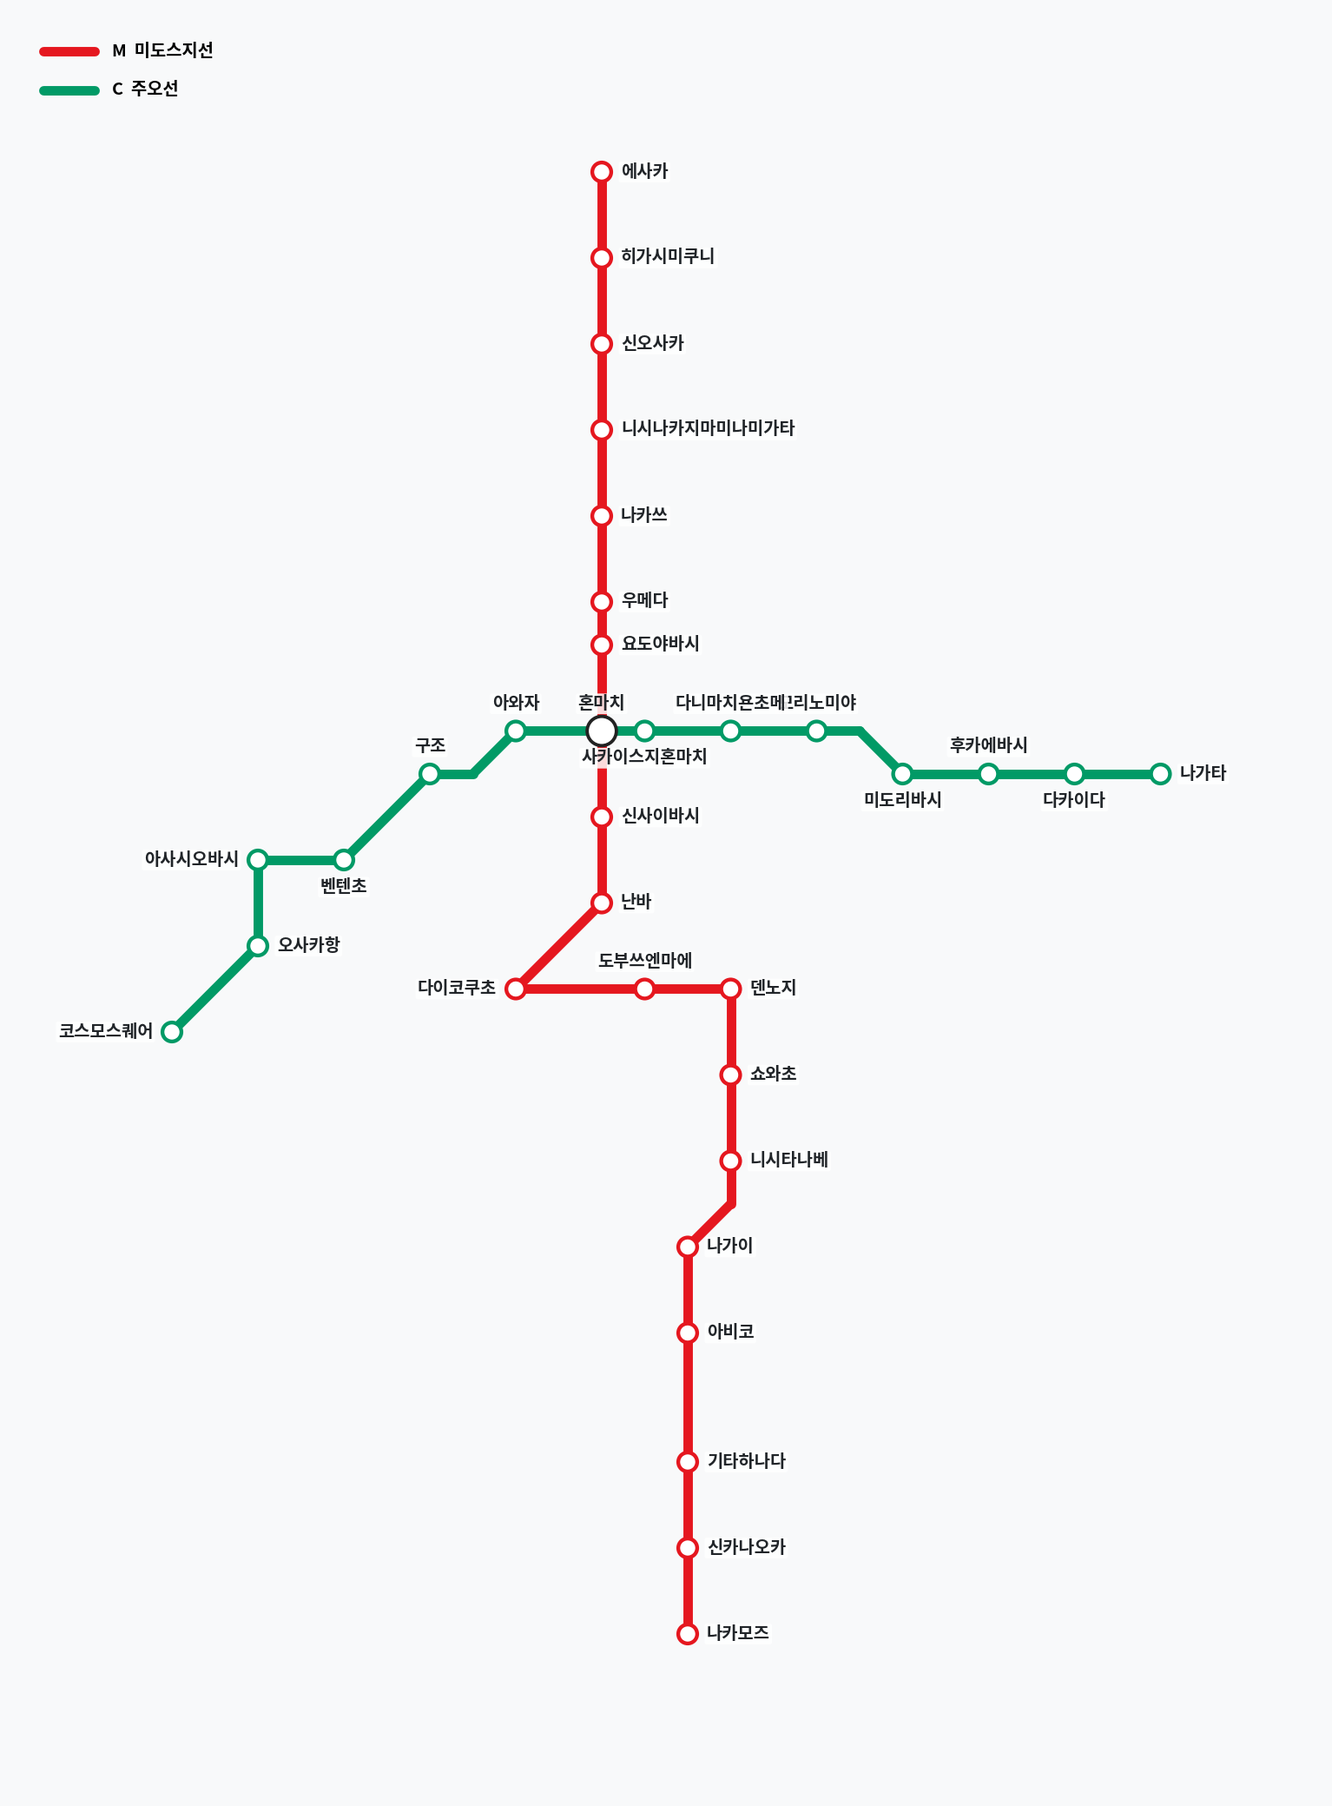
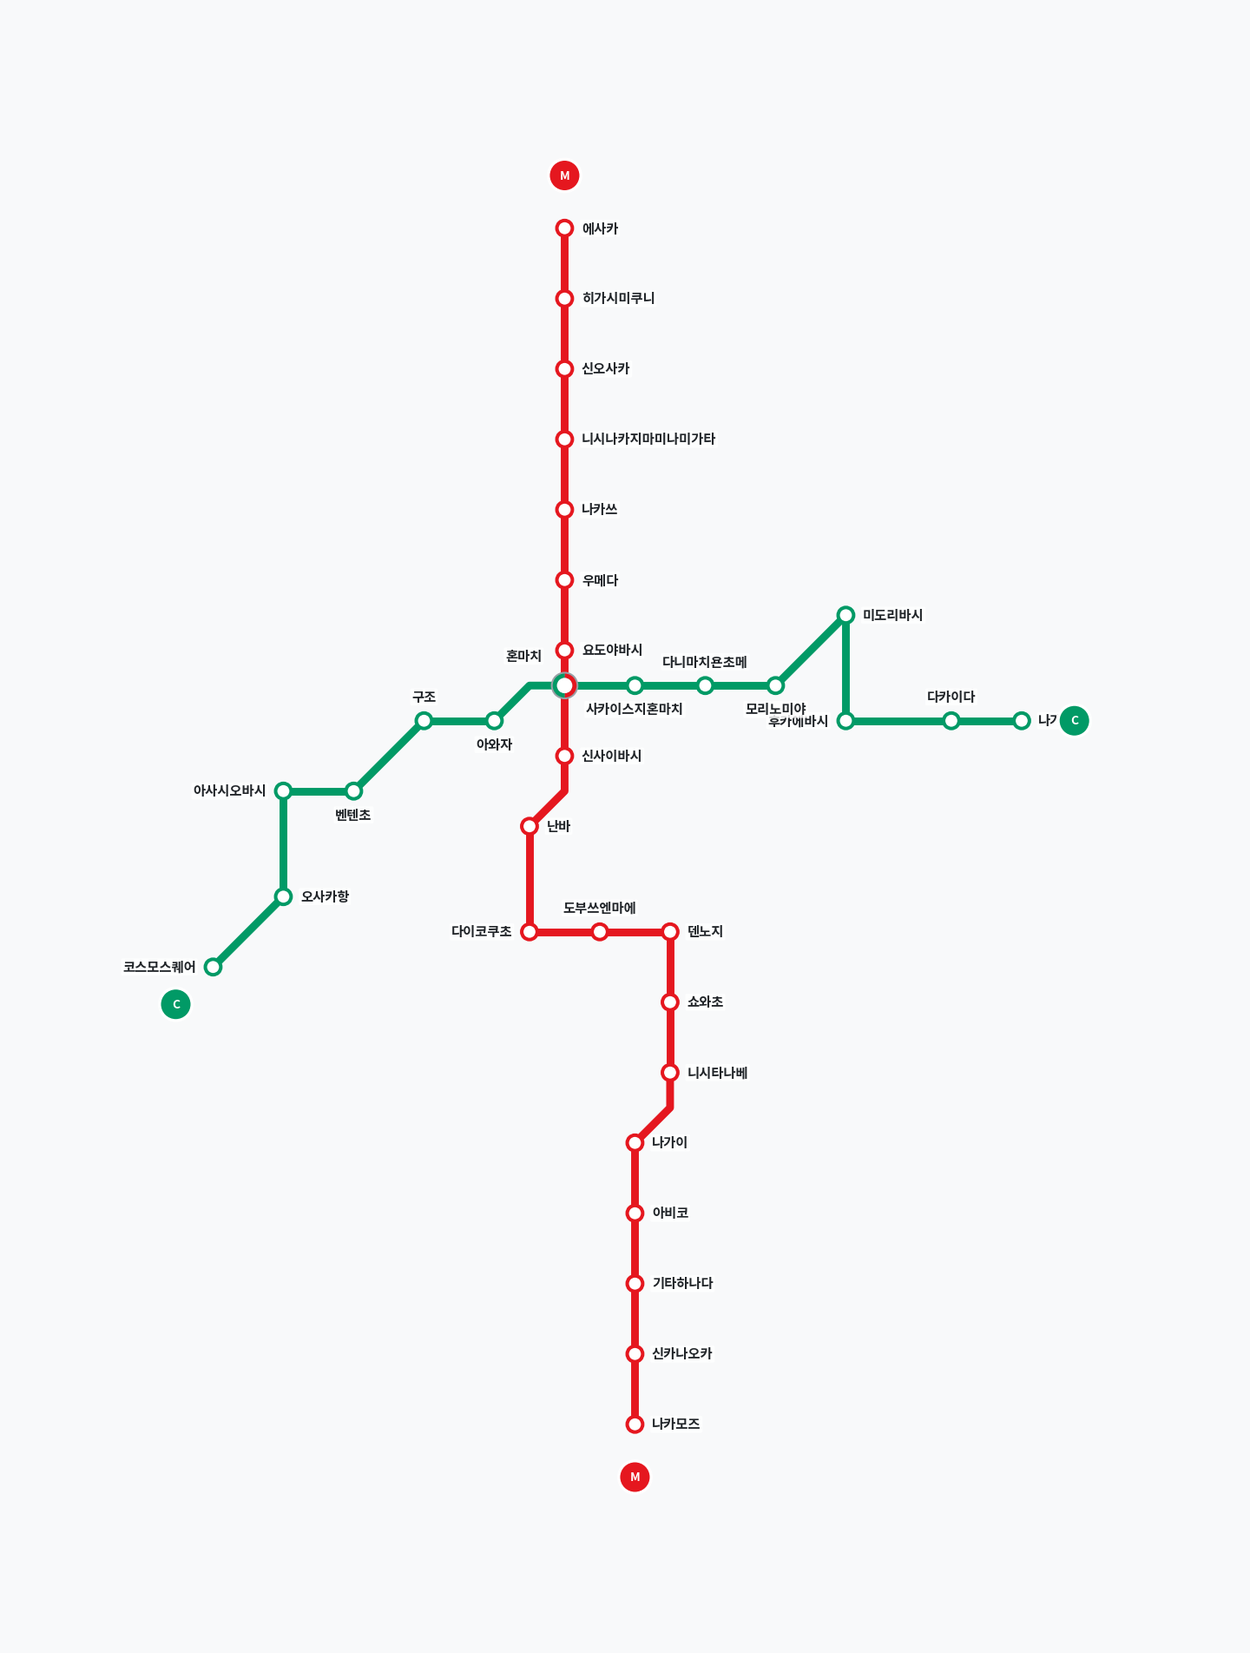
docs: README 정리 + 노선도 미리보기 최신화
- 개요를 한국어·영어로 새로 작성, 앱 설명 외 내용(빌드·릴리즈 절차 등) 삭제
- render_preview: 앱과 같은 회사별 선 디자인·환승역 분할 링·종점 아이콘(JR 사각형)으로 렌더링
- docs/images 노선도 재생성, 도쿄에 통합된 map_tama.png 삭제

Changed region(s): [[0.0625, 0.093, 0.9062, 0.9301], [0.0312, 0.0, 0.1562, 0.062]]

diff --git a/tools/render_preview.py b/tools/render_preview.py
@@ -1,5 +1,7 @@
-"""layout.json → PNG 미리보기 (PR 검토용). 한글 폰트 필요: --font, KO_FONT 환경변수 또는 tools/fonts/*.ttf"""
+"""layout.json → PNG 미리보기. 앱 노선도와 같은 규칙(회사별 선 디자인·환승역 분할 링·종점 아이콘)으로 그린다.
+한글 폰트: --font, KO_FONT 환경변수 또는 tools/fonts/*.ttf"""
 import argparse
+import colorsys
 import glob
 import json
 import math
@@ -9,13 +11,16 @@ import matplotlib
 matplotlib.use("Agg")
 import matplotlib.pyplot as plt  # noqa: E402
 from matplotlib import font_manager  # noqa: E402
+from matplotlib.patches import Circle, FancyBboxPatch, Wedge  # noqa: E402
 
 HERE = os.path.dirname(os.path.abspath(__file__))
+INK = "#212529"
 
 
 def find_font(explicit=None):
     cands = [explicit, os.environ.get("KO_FONT")] + glob.glob(os.path.join(HERE, "fonts", "*.ttf")) + [
         "/usr/share/fonts/truetype/nanum/NanumGothic.ttf", "/usr/share/fonts/opentype/noto/NotoSansCJK-Regular.ttc",
+        "/usr/share/fonts/opentype/noto/NotoSansCJK-Bold.ttc", "/usr/share/fonts/opentype/noto/NotoSerifCJK-Bold.ttc",
         "C:/Windows/Fonts/malgun.ttf", "/System/Library/Fonts/AppleSDGothicNeo.ttc"]
     for c in cands:
         if c and os.path.exists(c):
@@ -23,14 +28,49 @@ def find_font(explicit=None):
     return None
 
 
-def render(layout, network, out, font=None):
+def darker(hex_color, k=0.62):
+    h = hex_color.lstrip("#")
+    r, g, b = (int(h[i:i + 2], 16) / 255 for i in (0, 2, 4))
+    hh, ll, ss = colorsys.rgb_to_hls(r, g, b)
+    r, g, b = colorsys.hls_to_rgb(hh, ll * k, ss)
+    return "#%02x%02x%02x" % (int(r * 255), int(g * 255), int(b * 255))
+
+
+def luminance(hex_color):
+    h = hex_color.lstrip("#")
+    r, g, b = (int(h[i:i + 2], 16) / 255 for i in (0, 2, 4))
+    return 0.2126 * r + 0.7152 * g + 0.0722 * b
+
+
+def _styled(ax, xs, ys, color, category, lw, alpha=1.0):
+    kw = dict(solid_capstyle="round", alpha=alpha)
+    if category == "toei":
+        ax.plot(xs, ys, color=color, lw=lw, zorder=2, **kw)
+        ax.plot(xs, ys, color="white", lw=lw * 0.22, zorder=2.1, **kw)
+    elif category == "jr":
+        ax.plot(xs, ys, color=color, lw=lw * 1.1, zorder=2, solid_capstyle="butt", alpha=alpha)
+        ax.plot(xs, ys, color="white", lw=lw * 0.36, zorder=2.1, dashes=(2.2, 1.6), dash_capstyle="butt", alpha=alpha)
+    elif category == "private":
+        ax.plot(xs, ys, color=darker(color), lw=lw * 1.3, zorder=2, **kw)
+        ax.plot(xs, ys, color=color, lw=lw * 0.72, zorder=2.1, **kw)
+    elif category == "monorail":
+        ax.plot(xs, ys, color=color, lw=lw * 0.9, zorder=2, **kw)
+        ax.plot(xs, ys, color="white", lw=lw * 0.42, zorder=2.1, **kw)
+    elif category == "tram":
+        ax.plot(xs, ys, color=color, lw=lw * 0.6, zorder=2, **kw)
+    else:
+        ax.plot(xs, ys, color=color, lw=lw, zorder=2, **kw)
+
+
+def render(layout, network, out, font=None, dpi=90):
     fp = find_font(font)
     prop = font_manager.FontProperties(fname=fp) if fp else None
+    bold = font_manager.FontProperties(fname=fp, weight="bold") if fp else None
     if not fp:
         print("[warn] 한글 폰트를 찾지 못해 글자가 깨질 수 있습니다 (--font 지정)")
     u = layout["unit"]
     W, H = layout["width"], layout["height"]
-    fig = plt.figure(figsize=(W / u * 0.9, H / u * 0.9), dpi=110)
+    fig = plt.figure(figsize=(W / u * 0.9, H / u * 0.9), dpi=dpi)
     ax = fig.add_axes([0, 0, 1, 1])
     ax.set_xlim(0, W)
     ax.set_ylim(H, 0)
@@ -40,34 +80,78 @@ def render(layout, network, out, font=None):
     pt = fig.dpi / 72
     ppw = fig.get_size_inches()[0] * fig.dpi / W
     lw_pt = lw_world * ppw / pt
-    fs = u * 0.2 * ppw / pt
+    fs = u * 0.19 * ppw / pt
+
+    for g in layout.get("ghosts") or []:
+        pts = g.get("points") or []
+        if len(pts) >= 2:
+            _styled(ax, [p[0] for p in pts], [p[1] for p in pts], g.get("color", "#888888"), g.get("category", "metro"), lw_pt, alpha=0.3)
+
     for l in layout["lines"]:
+        cat = l.get("category", "metro")
         for s in l["segments"]:
             pts = s["points"]
-            o = s["offset"] * lw_world * 1.05
-            for (x1, y1), (x2, y2) in zip(pts, pts[1:]):
-                d = math.hypot(x2 - x1, y2 - y1) or 1
-                nx, ny = -(y2 - y1) / d * o, (x2 - x1) / d * o
-                ax.plot([x1 + nx, x2 + nx], [y1 + ny, y2 + ny], color=l["color"], lw=lw_pt, solid_capstyle="round", zorder=2)
+            o = s.get("offset", 0.0) * lw_world * 1.05
+            xs, ys = [], []
+            for i, (x, y) in enumerate(pts):
+                a = pts[max(i - 1, 0)]
+                b = pts[min(i + 1, len(pts) - 1)]
+                d = math.hypot(b[0] - a[0], b[1] - a[1]) or 1
+                xs.append(x - (b[1] - a[1]) / d * o)
+                ys.append(y + (b[0] - a[0]) / d * o)
+            _styled(ax, xs, ys, l["color"], cat, lw_pt)
+
+    # 역별 노선 색 (같은 색 노선은 하나로 센다)
     line_color = {l["id"]: l["color"] for l in network["lines"]}
     st_line = {s["id"]: s["lineId"] for s in network["stations"]}
     for n in layout["nodes"]:
         x, y = n["x"], n["y"]
-        if n["interchange"]:
-            ax.add_patch(plt.Circle((x, y), u * 0.17, facecolor="white", edgecolor="#222", lw=lw_pt * 0.35, zorder=3))
+        cols = []
+        for sid in n["stationIds"]:
+            c = line_color.get(st_line.get(sid))
+            if c and c.upper() not in [k.upper() for k in cols]:
+                cols.append(c)
+        k = len(cols)
+        if k <= 1:
+            r = u * 0.11
+            ax.add_patch(Circle((x, y), r, facecolor="white", edgecolor=(cols[0] if cols else "#444"), lw=lw_pt * 0.45, zorder=3))
         else:
-            ax.add_patch(plt.Circle((x, y), u * 0.11, facecolor="white", edgecolor=line_color[st_line[n["stationIds"][0]]], lw=lw_pt * 0.4, zorder=3))
+            r = u * (0.17 if k == 2 else 0.2 if k == 3 else 0.24)
+            ring = r * 0.36
+            ax.add_patch(Circle((x, y), r + u * 0.025, facecolor=("#9AA0A6" if k == 2 else "#343A40"), edgecolor="none", zorder=3))
+            for i, c in enumerate(cols):
+                a0 = 90 - 360 * (i + 1) / k
+                ax.add_patch(Wedge((x, y), r, a0, a0 + 360 / k, width=ring, facecolor=c, edgecolor="none", zorder=3.1))
+            ax.add_patch(Circle((x, y), r - ring, facecolor="white", edgecolor="none", zorder=3.2))
+            if k >= 4:
+                ax.text(x, y, str(k), fontproperties=bold, fontsize=fs * 0.85, ha="center", va="center", color=INK, zorder=3.3)
         dx, dy = n["labelDx"], n["labelDy"]
-        gap = u * 0.22
+        gap = u * (0.24 if k <= 1 else 0.32)
         ha = "left" if dx > 0 else ("right" if dx < 0 else "center")
         va = "top" if dy > 0 else ("bottom" if dy < 0 else "center")
         ax.text(x + dx * gap, y + dy * gap, n["labelKo"], fontproperties=prop, fontsize=fs, ha=ha, va=va, zorder=4,
-                color="#212529", bbox=dict(boxstyle="round,pad=0.12", fc="white", ec="none", alpha=0.85))
-    x0 = u * 0.5
-    for i, l in enumerate(network["lines"]):
-        ax.plot([x0, x0 + u * 0.6], [u * (0.6 + i * 0.45)] * 2, color=l["color"], lw=lw_pt, solid_capstyle="round")
-        ax.text(x0 + u * 0.8, u * (0.6 + i * 0.45), f'{l["code"]}  {l["name"]["ko"]}', fontproperties=prop, fontsize=fs, va="center")
-    os.makedirs(os.path.dirname(out), exist_ok=True)
+                color=INK, bbox=dict(boxstyle="round,pad=0.12", fc="white", ec="none", alpha=0.85))
+
+    # 종점 노선 아이콘: JR = 둥근 사각형, 그 외 = 원
+    side = u * 0.42
+    for l in layout["lines"]:
+        for t in l.get("terminals") or []:
+            cx, cy = t[0], t[1]
+            txt_col = INK if luminance(l["color"]) > 0.62 else "white"
+            if l.get("category") == "jr":
+                rim = side * 0.1
+                ax.add_patch(FancyBboxPatch((cx - side / 2 - rim, cy - side / 2 - rim), side + 2 * rim, side + 2 * rim,
+                                            boxstyle=f"round,pad=0,rounding_size={side * 0.22}", fc="white", ec="none", zorder=5))
+                ax.add_patch(FancyBboxPatch((cx - side / 2, cy - side / 2), side, side,
+                                            boxstyle=f"round,pad=0,rounding_size={side * 0.16}", fc=l["color"], ec="none", zorder=5.1))
+            else:
+                ax.add_patch(Circle((cx, cy), side / 2 * 1.2, facecolor="white", edgecolor="none", zorder=5))
+                ax.add_patch(Circle((cx, cy), side / 2, facecolor=l["color"], edgecolor="none", zorder=5.1))
+            code = l.get("code", "")
+            ax.text(cx, cy, code, fontproperties=bold, fontsize=fs * (0.9 if len(code) <= 1 else 0.7 if len(code) == 2 else 0.55),
+                    ha="center", va="center", color=txt_col, zorder=5.2)
+
+    os.makedirs(os.path.dirname(out) or ".", exist_ok=True)
     fig.savefig(out, facecolor="#F8F9FA")
     plt.close(fig)
     print(f"[preview] {os.path.basename(out)}")
@@ -78,9 +162,10 @@ if __name__ == "__main__":
     ap.add_argument("region_dir")
     ap.add_argument("--out", required=True)
     ap.add_argument("--font")
+    ap.add_argument("--dpi", type=int, default=90)
     a = ap.parse_args()
     with open(os.path.join(a.region_dir, "layout.json"), encoding="utf-8") as f:
         lay = json.load(f)
     with open(os.path.join(a.region_dir, "network.json"), encoding="utf-8") as f:
         net = json.load(f)
-    render(lay, net, a.out, a.font)
+    render(lay, net, a.out, a.font, a.dpi)

diff --git a/README.md b/README.md
@@ -1,93 +1,68 @@
 # 월드 와이드 메트로 (World Wide Metro)
 
-> 구 프로젝트명: jp-subway-now
+## 개요
 
-일본 지하철의 **시간표 + 실시간 지연·운행정보**를 조합해 한국 앱처럼 **"N분 후 도착"** 으로 보여주는 안드로이드 앱입니다.
-노선도는 지역별로 새로 그린 도식 노선도이며, 모든 역명을 **한글**로 표기합니다. 시간표 기반 **최적 경로 검색**을 지원합니다.
+**한국어**
+월드 와이드 메트로는 일본 수도권 철도의 시간표와 실시간 운행정보를 결합해, 한국 지하철 앱처럼 "몇 분 후 도착"으로 알려 주는 안드로이드 앱입니다. 도쿄메트로·도에이·JR·사철 80여 개 노선을 새로 그린 노선도에 담았고, 모든 역명을 한글로 표기합니다. 역을 누르면 방면별 도착정보와 최단시간·최소환승 경로를 바로 확인할 수 있습니다.
 
-> 비공식 개인 프로젝트입니다. 데이터는 공공교통 오픈데이터센터(ODPT)에서 제공받으며 정확성을 보증하지 않습니다. 자세한 내용은 [NOTICE.md](NOTICE.md)를 참고하세요.
+**English**
+World Wide Metro is an Android app that shows "arriving in N min" for Tokyo-area trains by combining timetables with live service data. Over 80 Metro, Toei, JR and private lines appear on a newly drawn map with Korean station names, plus fastest and fewest-transfer route search.
 
-![도쿄 노선도 미리보기](docs/images/map_tokyo.png)
+> 비공식 개인 프로젝트입니다. 데이터의 정확성을 보증하지 않습니다.
+
+![도쿄 노선도](docs/images/map_tokyo.png)
+
+<sub>공개 데이터 노선 기준 미리보기입니다. 공공교통 오픈데이터 챌린지 2026 제공 노선(JR·사철)은 데이터 이용 조건에 따라 앱 안에서만 표시됩니다.</sub>
 
 ## 주요 기능
-| 기능 | 설명 | 구현 |
+
+| 기능 | 설명 |
+|---|---|
+| N분 후 도착 | 시간표에 실시간 지연을 더해 도착 시각을 계산하고, 열차 위치로 "전역 출발 / 전역 도착 / 곧 도착"을 표시합니다. 첫차·막차도 알려 줍니다. |
+| 노선도 | 실제 좌표를 바탕으로 8방향 도식 노선도를 자동 생성합니다. 확대·축소에 맞춰 선과 역명이 함께 커지고 작아지며, 역명은 서로 겹치지 않게 배치됩니다. |
+| 노선 필터 | 상단의 **지하철 / JR / 사철** 버튼으로 원하는 노선만 골라 볼 수 있습니다. |
+| 한글 역명 | 모든 역명을 한국어 외래어 표기법에 맞춰 한글로 표기합니다. |
+| 경로 검색 | 시간표를 반영해 최단시간·최소환승 경로를 한 번에 계산하고, 다음 열차 대안도 보여 줍니다. JR·사철을 포함한 모든 노선 간 환승을 지원합니다. |
+| 역 검색 | 초성(ㅅㅈㅋ), 일본어, 영문, 역번호(G09)로 찾을 수 있습니다. |
+
+## 노선도 디자인
+
+철도회사마다 선 모양을 다르게 그려 한눈에 구분할 수 있습니다.
+
+| 구분 | 선 모양 | 종점 아이콘 |
 |---|---|---|
-| N분 후 도착 | 예정 도착 = 시간표 + 실시간 지연. 열차 위치로 "전역 출발 / 전역 도착 / 곧 도착" 판정, 첫차·막차 표시 | `domain/arrival/ArrivalEstimator.kt` |
-| 노선도 | 좌표 → 8방향 도식화, 역 간격 균일화, 겹치는 구간 평행선, 확대해도 글자 크기 고정 | `tools/layout_schematic.py`, `ui/map/` |
-| 한글 역명 | ODPT 한국어 표기 → 수동 보정표 → 가나 자동 변환 순으로 적용 | `core/i18n/KanaToHangul.kt`, `tools/seed/ko_overrides.csv` |
-| 최적 경로 | RAPTOR 알고리즘. 최단시간 / 최소환승을 한 번에 계산, 다음 열차 대안 | `domain/routing/Raptor.kt` |
-| 역 검색 | 초성(ㅅㅈㅋ), 일본어, 영문, 역번호(G09) | `ui/search/` |
-| 데모 모드 | ODPT 토큰이 없으면 가상 시간표로 동작 | `data/demo/DemoTimetableSource.kt` |
+| 도쿄메트로·시영 지하철 | 실선 | 원 |
+| 도에이 지하철 | 실선 + 가운데 흰 줄 | 원 |
+| JR | 실선 + 흰 점선 | **둥근 사각형** |
+| 사철 | 진한 테두리 실선 | 원 |
+| 모노레일·신교통 | 속이 빈 선 | 원 |
+| 노면전차 | 가는 선 | 원 |
 
-화면 흐름: 노선도 → 역 탭 → 바텀시트(출발 / 도착 / 도착정보) → 방면별 도착 카드 → 경로 결과(최단시간 / 최소환승 탭)
+- 환승역은 노선 수에 따라 공점 모양이 달라집니다. 2개 노선은 2분할 링, 3개 노선은 3분할 링, 4개 이상은 분할 링 가운데에 노선 수를 표시합니다.
+- 각 노선의 양 끝에는 노선 기호가 들어간 아이콘을 표시합니다.
+- 다른 지역과 이어지는 환승역에서는 상대 지역의 노선을 반투명하게 일부 보여 줍니다.
 
-## 수록 노선 (v0.2.0)
+## 수록 노선
 
-총 23개 노선 · 458개 역 (노선별 역 수 합계)
+| 지역 | 노선 | 데이터 |
+|---|---|---|
+| 도쿄 | 도쿄메트로 9개 노선 + 마루노우치선 지선 | ODPT 공개 데이터 |
+| 도쿄 | 도에이 아사쿠사·미타·신주쿠·오에도선, 도덴 아라카와선, 닛포리·도네리 라이너 | ODPT 공개 데이터 |
+| 도쿄 | 쓰쿠바 익스프레스, 린카이선, 다마 모노레일 | ODPT 공개 데이터 |
+| 도쿄 | JR 동일본 29개, 세이부 9개, 도큐 9개, 게이오 5개, 도부 4개, 게이큐 3개, 오다큐 3개, 소테쓰 3개 노선 | 챌린지 2026 데이터 |
+| 요코하마 | 시영 지하철 블루라인·그린라인 | ODPT 공개 데이터 |
+| 오사카 | 미도스지선·주오선 | 데모 시간표 |
 
-| 지역 | 코드 | 노선 | 역 | 데이터 |
-|---|---|---|---|---|
-| 도쿄 | C | 지요다선 | 20 | ODPT |
-| 도쿄 | F | 후쿠토신선 | 16 | ODPT |
-| 도쿄 | G | 긴자선 | 19 | ODPT |
-| 도쿄 | Z | 한조몬선 | 14 | ODPT |
-| 도쿄 | H | 히비야선 | 22 | ODPT |
-| 도쿄 | M | 마루노우치선 | 25 | ODPT |
-| 도쿄 | Mb | 마루노우치선 지선 | 4 | ODPT |
-| 도쿄 | N | 난보쿠선 | 19 | ODPT |
-| 도쿄 | T | 도자이선 | 23 | ODPT |
-| 도쿄 | Y | 유라쿠초선 | 24 | ODPT |
-| 도쿄 | SA | 도덴 아라카와선 | 30 | ODPT |
-| 도쿄 | A | 도에이 아사쿠사선 | 20 | ODPT |
-| 도쿄 | I | 도에이 미타선 | 27 | ODPT |
-| 도쿄 | NT | 닛포리·도네리 라이너 | 13 | ODPT |
-| 도쿄 | E | 도에이 오에도선 | 38 | ODPT |
-| 도쿄 | S | 도에이 신주쿠선 | 21 | ODPT |
-| 도쿄 | TX | 쓰쿠바 익스프레스 | 20 | ODPT |
-| 도쿄 | R | 린카이선 | 8 | ODPT |
-| 요코하마 | B | 요코하마 블루라인 | 32 | ODPT |
-| 요코하마 | G | 요코하마 그린라인 | 10 | ODPT |
-| 다마 | TT | 다마 모노레일 | 19 | ODPT |
-| 오사카 | M | 미도스지선 | 20 | 데모 시간표 |
-| 오사카 | C | 주오선 | 14 | 데모 시간표 |
+- 도쿄 지역은 총 84개 노선입니다. 수도권 밖으로 이어지는 노선은 수도권 구간만 수록했습니다.
+- 실시간 열차 위치는 데이터가 제공되는 사업자에 한해 반영하며, 그 외 노선은 시간표와 운행정보를 기준으로 표시합니다.
 
-- 실시간 열차 위치: 도에이·요코하마 시영 (ODPT 제공 범위). 도쿄메트로 등은 시간표 + 운행정보 기준.
-- JR·사철은 ODPT 일반 API 에 좌표·시간표가 없어 미수록.
-- 노선 데이터 갱신: Actions → *Update network from ODPT* 수동 실행. 중계 서버: [docs/PROXY.md](docs/PROXY.md)
+## 데이터 출처
 
-## 빠른 시작
-1. ODPT 개발자 사이트(developer.odpt.org)에서 무료 토큰을 발급받습니다.
-2. `local.properties.example`을 `local.properties`로 복사하고 `sdk.dir`, `odpt.consumerKey`를 채웁니다. (토큰 없이도 데모 모드로 실행됩니다. 앱 설정 화면에서 토큰을 입력해도 됩니다.)
-3. Android Studio(Ladybug 이상, JDK 17)로 폴더를 엽니다. Gradle Wrapper가 자동 생성됩니다.
-4. `app` 구성을 실행합니다.
+- 공공교통 오픈데이터센터(ODPT) 공개 데이터
+- 공공교통 오픈데이터 챌린지 2026 제공 데이터. 챌린지 기간에만 이용할 수 있으며, 기간이 끝나면 해당 노선은 앱에서 제외됩니다.
 
-명령줄: `gradle wrapper --gradle-version 8.11.1` 후 `./gradlew testDebugUnitTest assembleDebug`
-
-## GitHub 등록과 릴리즈
-1. 저장소를 만들고 이 폴더 전체를 push 합니다.
-2. Actions 탭에서 **Gradle Wrapper** 워크플로를 한 번 수동 실행하면 `gradlew`와 wrapper jar가 커밋됩니다.
-3. Settings → Secrets and variables → Actions에 아래 값을 등록합니다.
-
-| Secret |
-|---|
-| `ANDROID_KEYSTORE_BASE64` |
-| `ANDROID_KEYSTORE_PASSWORD` |
-| `ANDROID_KEY_ALIAS` |
-| `ANDROID_KEY_PASSWORD` |
-| `ODPT_CONSUMER_KEY` |
-
-4. `git tag v0.1.0 && git push origin v0.1.0` → **Release** 워크플로가 서명된 APK·AAB·SHA256SUMS를 GitHub Release에 올립니다.
-
-자세한 내용: [docs/RELEASE.md](docs/RELEASE.md)
-
-## 문서
-- [ARCHITECTURE.md](docs/ARCHITECTURE.md) 전체 구조
-- [ARRIVAL_ALGORITHM.md](docs/ARRIVAL_ALGORITHM.md) 도착 시간 계산
-- [ROUTING.md](docs/ROUTING.md) 경로 탐색
-- [MAP_DESIGN_GUIDE.md](docs/MAP_DESIGN_GUIDE.md) 노선도 설계
-- [KOREAN_NAMING.md](docs/KOREAN_NAMING.md) 역명 한글 표기
-- [DATA_SOURCES.md](docs/DATA_SOURCES.md) 데이터 출처
-- [RELEASE.md](docs/RELEASE.md) 릴리즈
+데이터 이용 조건과 면책 사항은 [NOTICE.md](NOTICE.md)를 참고하세요.
 
 ## 라이선스
-코드는 [MIT](LICENSE). 데이터 이용 조건은 [NOTICE.md](NOTICE.md). UI는 국내 지하철 앱의 사용 흐름을 참고했으나 특정 회사의 명칭·로고·디자인 자산은 사용하지 않습니다.
+
+코드는 [MIT 라이선스](LICENSE)를 따릅니다.
